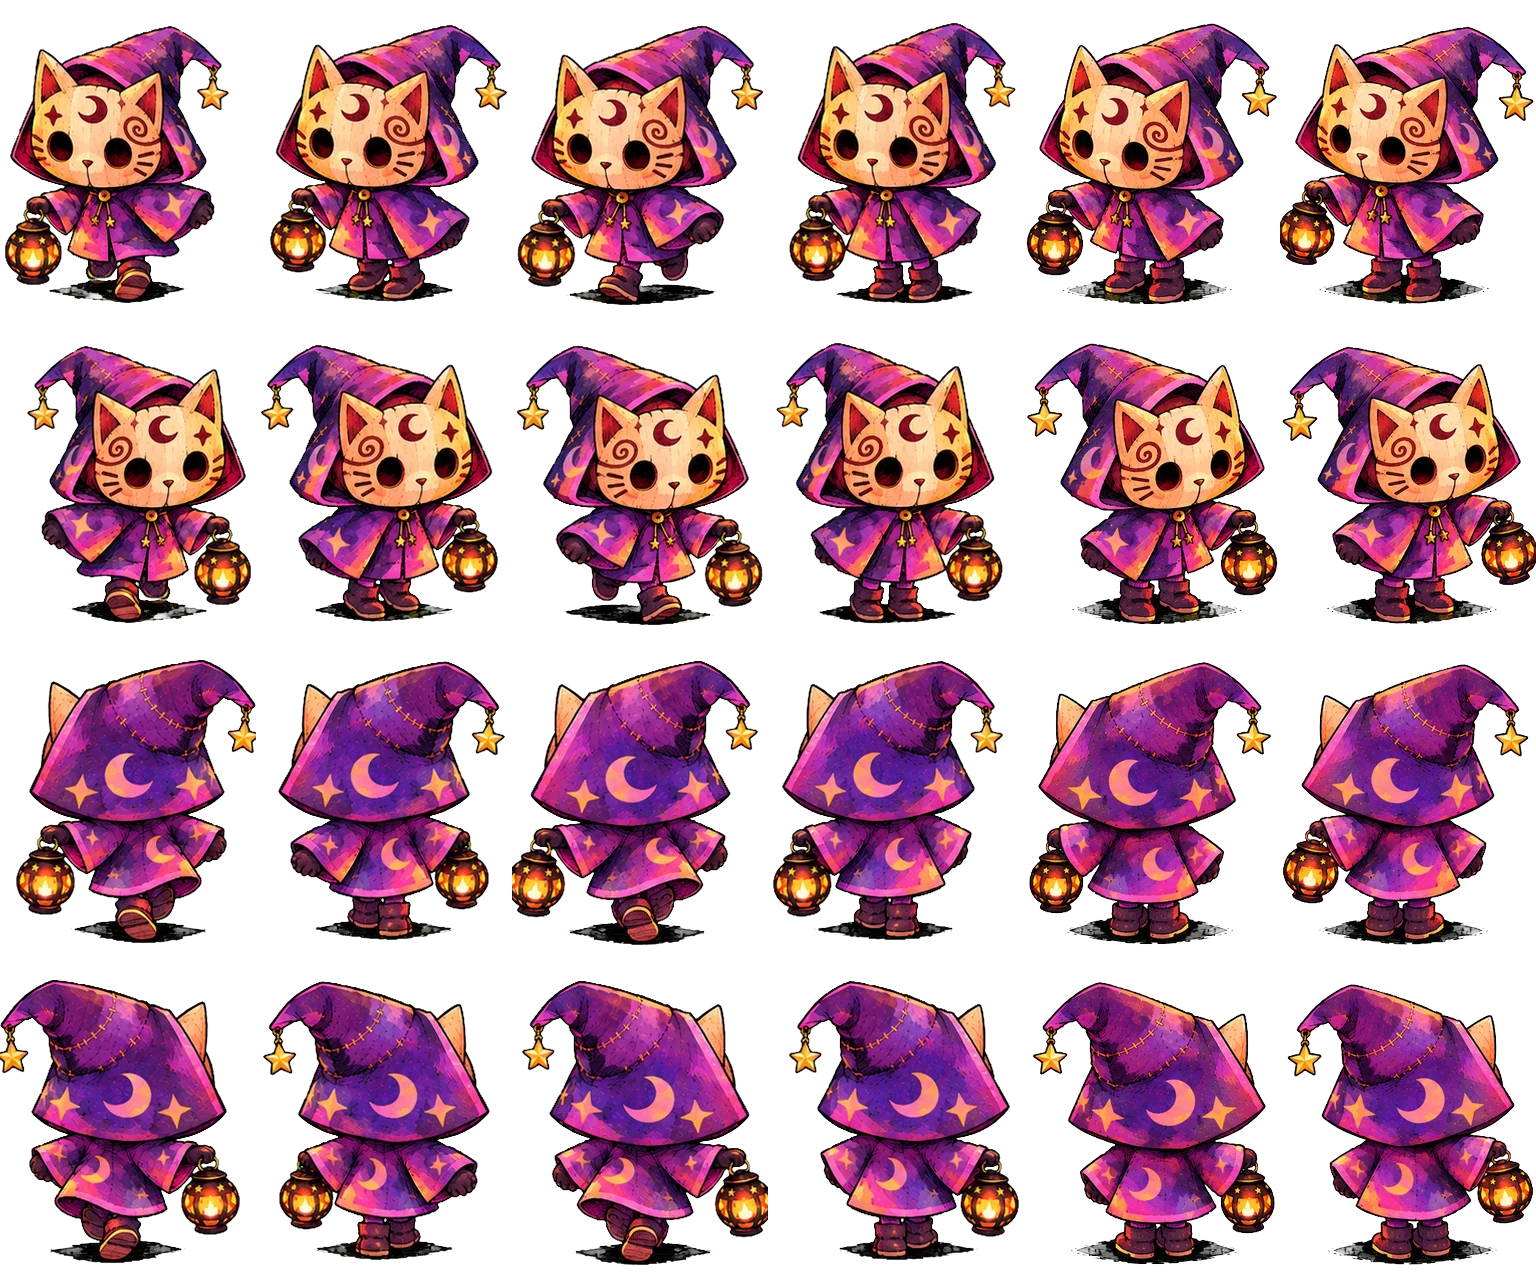
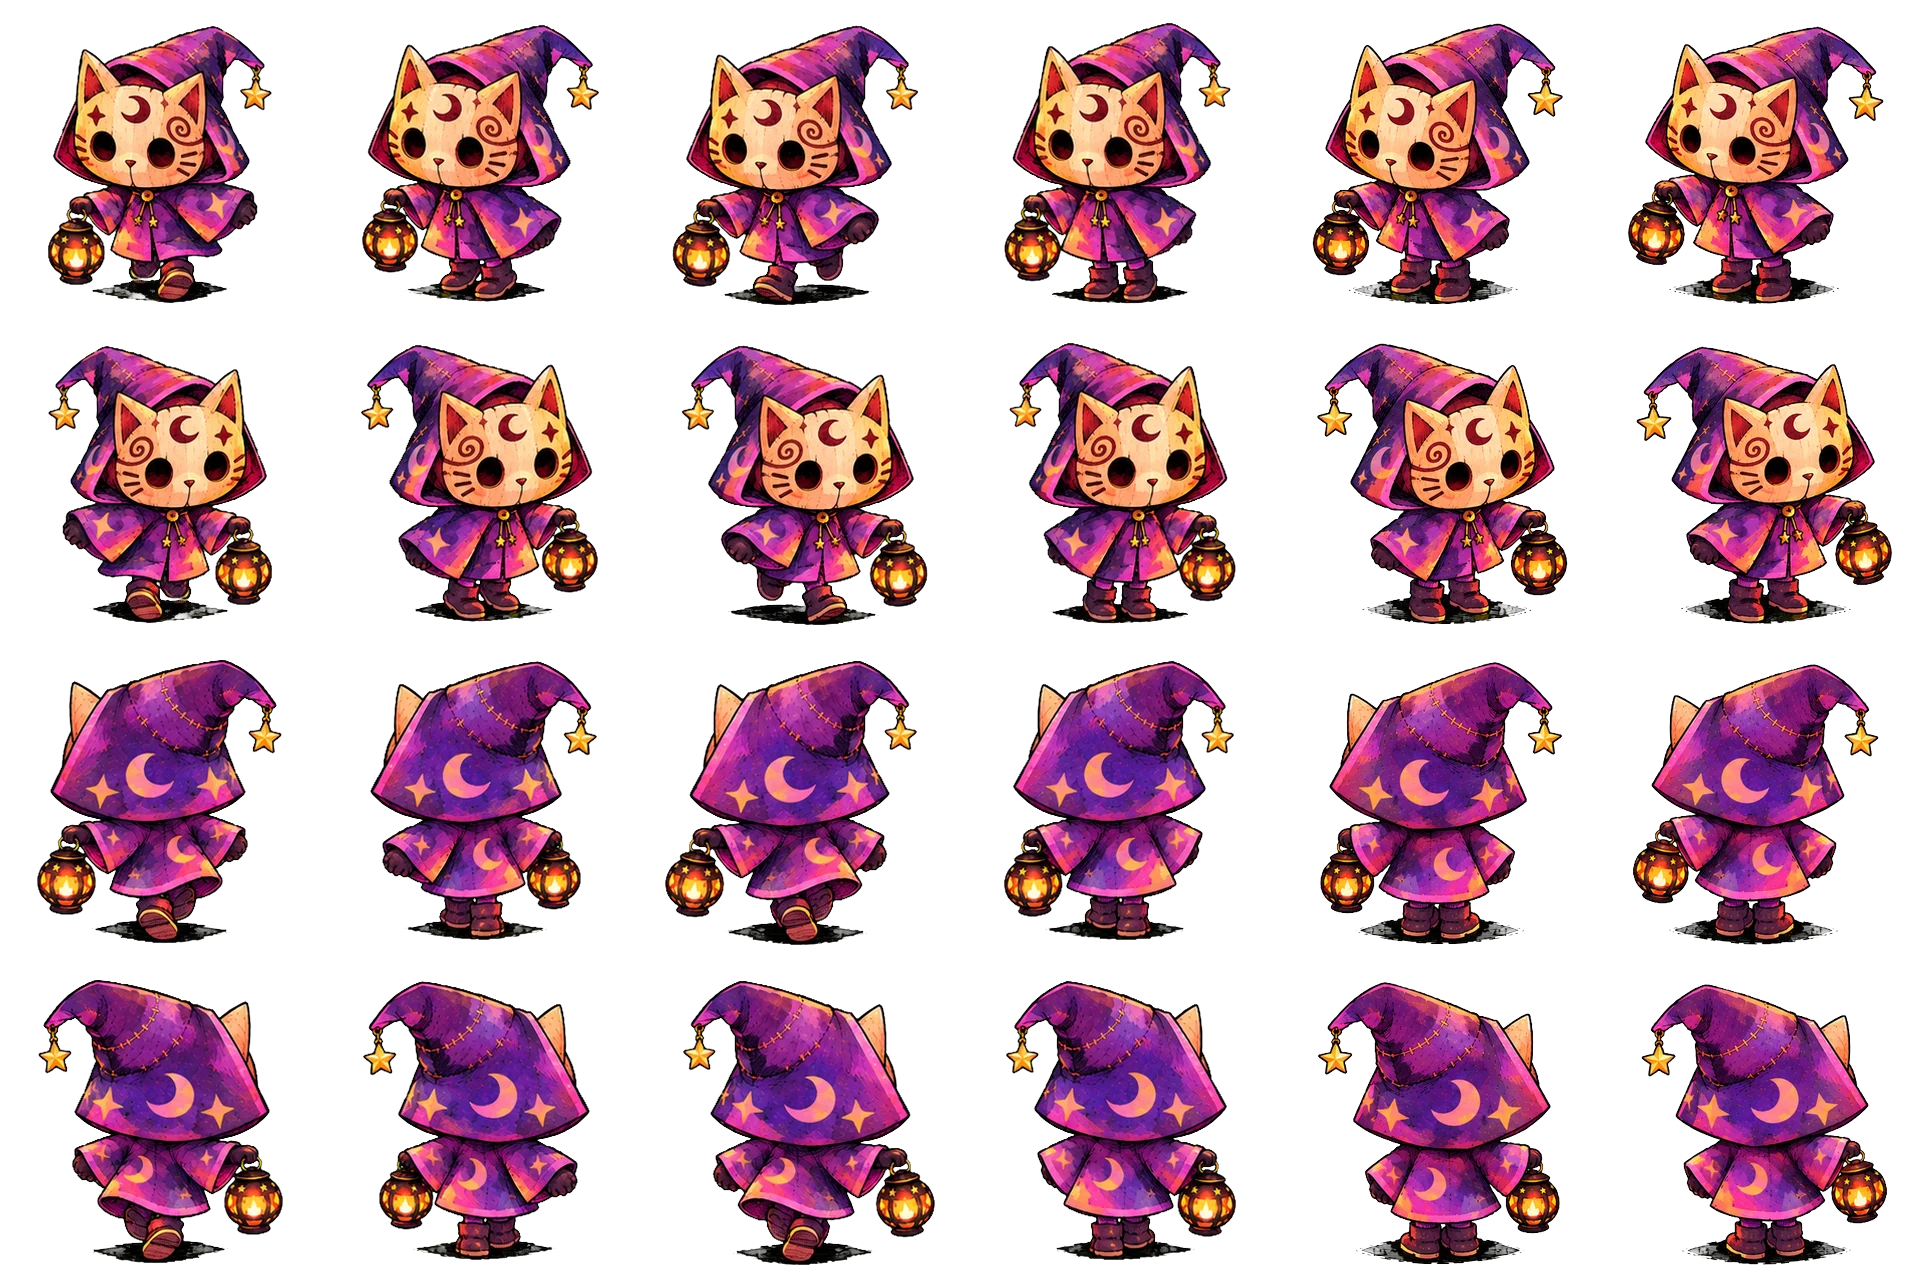
Jeu vidéo : le héros ne tremble plus en marchant (images alignées sur la tête, sans petit saut)
Claude-Session: https://claude.ai/code/session_01WqRh12bWCDZpSY6xET6qxy

diff --git a/index.html b/index.html
@@ -2190,7 +2190,7 @@ function creerHeros() {   // un enfant en sweat à capuche violet, masque de cha
   m(new THREE.BoxGeometry(.12, .15, .12), COUL.lumiere, .27, .37, .08, 1.2);       // la lanterne
   const lueur = new THREE.PointLight(0xffd27a, 1.2, 3, 1.6); lueur.position.set(.27, .4, .1); g.add(lueur);
   const dessin = new THREE.Sprite(new THREE.SpriteMaterial({ transparent: true, alphaTest: .05 }));
-  dessin.center.set(.5, .05); dessin.scale.set(1.15, 1.44, 1); dessin.position.y = .02; dessin.visible = false; g.add(dessin);
+  dessin.center.set(.5, .05); dessin.scale.set(1.44, 1.44, 1); dessin.position.y = .02; dessin.visible = false; g.add(dessin);
   new THREE.TextureLoader().load(IMG_JEU + "jeu-heros.webp", tex => {
     tex.colorSpace = THREE.SRGBColorSpace; tex.repeat.set(1 / 6, 1 / 4); tex.magFilter = THREE.LinearFilter;
     dessin.material.map = tex; dessin.material.needsUpdate = true; dessin.visible = true; corps.visible = false;
@@ -2487,7 +2487,7 @@ function boucleJeu(t) {
   lumiereJ(R, zoneJ(Math.round(fx), Math.round(fy)), premier);
   h.position.set(fx, Math.max(0, sol) + bond, fy);
   if (h.userData.dessin.visible) {   // le dessin regarde toujours la caméra : on change seulement d'image
-    imageHeros(h, t, !!(JEU.pas || JEU.tenu)); h.position.y = Math.max(0, sol) + bond * .5;
+    imageHeros(h, t, !!(JEU.pas || JEU.tenu)); h.position.y = Math.max(0, sol);   // pas de petit saut : les images de marche bougent déjà
     h.userData.dessin.material.color.setRGB(1 - .18 * R.nuit, 1 - .22 * R.nuit, 1 - .08 * R.nuit);
   } else {
     const cible = ANGLE[JEU.dir], da = Math.atan2(Math.sin(cible - h.rotation.y), Math.cos(cible - h.rotation.y)); h.rotation.y += da * .35;

diff --git a/sources/jeu.js b/sources/jeu.js
@@ -307,7 +307,7 @@ function creerHeros() {   // un enfant en sweat à capuche violet, masque de cha
   m(new THREE.BoxGeometry(.12, .15, .12), COUL.lumiere, .27, .37, .08, 1.2);       // la lanterne
   const lueur = new THREE.PointLight(0xffd27a, 1.2, 3, 1.6); lueur.position.set(.27, .4, .1); g.add(lueur);
   const dessin = new THREE.Sprite(new THREE.SpriteMaterial({ transparent: true, alphaTest: .05 }));
-  dessin.center.set(.5, .05); dessin.scale.set(1.15, 1.44, 1); dessin.position.y = .02; dessin.visible = false; g.add(dessin);
+  dessin.center.set(.5, .05); dessin.scale.set(1.44, 1.44, 1); dessin.position.y = .02; dessin.visible = false; g.add(dessin);
   new THREE.TextureLoader().load(IMG_JEU + "jeu-heros.webp", tex => {
     tex.colorSpace = THREE.SRGBColorSpace; tex.repeat.set(1 / 6, 1 / 4); tex.magFilter = THREE.LinearFilter;
     dessin.material.map = tex; dessin.material.needsUpdate = true; dessin.visible = true; corps.visible = false;
@@ -604,7 +604,7 @@ function boucleJeu(t) {
   lumiereJ(R, zoneJ(Math.round(fx), Math.round(fy)), premier);
   h.position.set(fx, Math.max(0, sol) + bond, fy);
   if (h.userData.dessin.visible) {   // le dessin regarde toujours la caméra : on change seulement d'image
-    imageHeros(h, t, !!(JEU.pas || JEU.tenu)); h.position.y = Math.max(0, sol) + bond * .5;
+    imageHeros(h, t, !!(JEU.pas || JEU.tenu)); h.position.y = Math.max(0, sol);   // pas de petit saut : les images de marche bougent déjà
     h.userData.dessin.material.color.setRGB(1 - .18 * R.nuit, 1 - .22 * R.nuit, 1 - .08 * R.nuit);
   } else {
     const cible = ANGLE[JEU.dir], da = Math.atan2(Math.sin(cible - h.rotation.y), Math.cos(cible - h.rotation.y)); h.rotation.y += da * .35;

diff --git a/sources/decoupe.py b/sources/decoupe.py
@@ -19,17 +19,18 @@ def nettoie(c):   # garde le personnage (la plus grosse tache) et ce qui le touc
     return Image.fromarray(a,'RGBA')
 def bbox(c):
     a=np.asarray(c)[...,3]>128; ys,xs=np.nonzero(a); return xs.min(),ys.min(),xs.max(),ys.max()
-FW,FH,PIED,HT=256,320,304,280
+FW,FH,PIED,HT=320,320,304,280
+def tete(c):   # centre de la tête (le haut du personnage) : c'est lui qu'on garde immobile d'une image à l'autre
+    a=np.asarray(c)[...,3]>128; ys,xs=np.nonzero(a); y0=ys.min(); h=ys.max()-y0
+    zone=a[y0:y0+int(h*.5)]; _,hx=np.nonzero(zone); return hx.mean()
 def normalise(rows):
     hs=[bbox(c)[3]-bbox(c)[1] for row in rows for c in row]; s=HT/np.median(hs)
     res=[]
     for row in rows:
-        bb=[bbox(c) for c in row]; bas=max(b[3] for b in bb); cx=np.mean([(b[0]+b[2])/2 for b in bb])
-        out=[]
+        bas=max(bbox(c)[3] for c in row); out=[]
         for c in row:
             w,h=c.size; c2=c.resize((round(w*s),round(h*s)),Image.LANCZOS)
-            f=Image.new('RGBA',(FW,FH)); f.alpha_composite(c2,(round(FW/2-cx*s),round(PIED-bas*s)) if False else (0,0)) if False else None
-            f.paste(c2,(round(FW/2-cx*s),round(PIED-bas*s)),c2); out.append(f)
+            f=Image.new('RGBA',(FW,FH)); f.paste(c2,(round(FW/2-tete(c)*s),round(PIED-bas*s)),c2); out.append(f)
         res.append(out)
     return res
 marche=normalise(cellules('afd91521-Sprite_sheet_du_chat_sorcier_lumineux.png',4,4))
